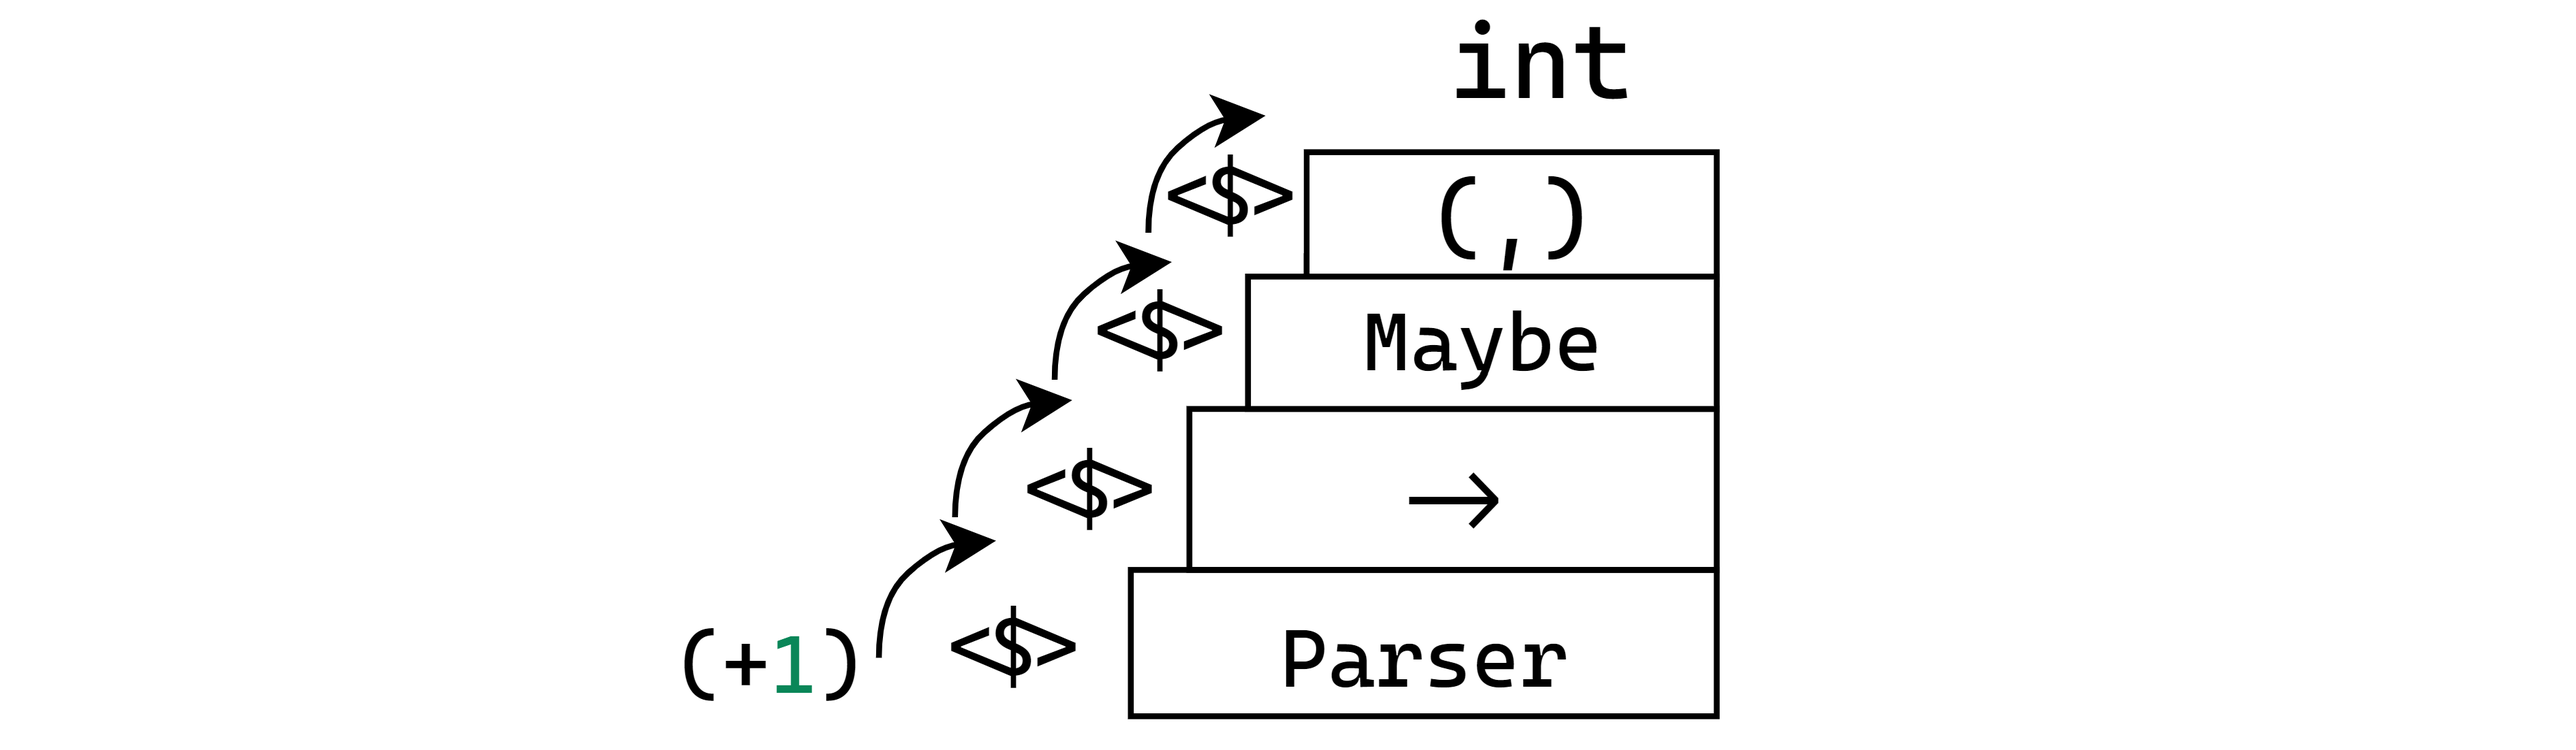
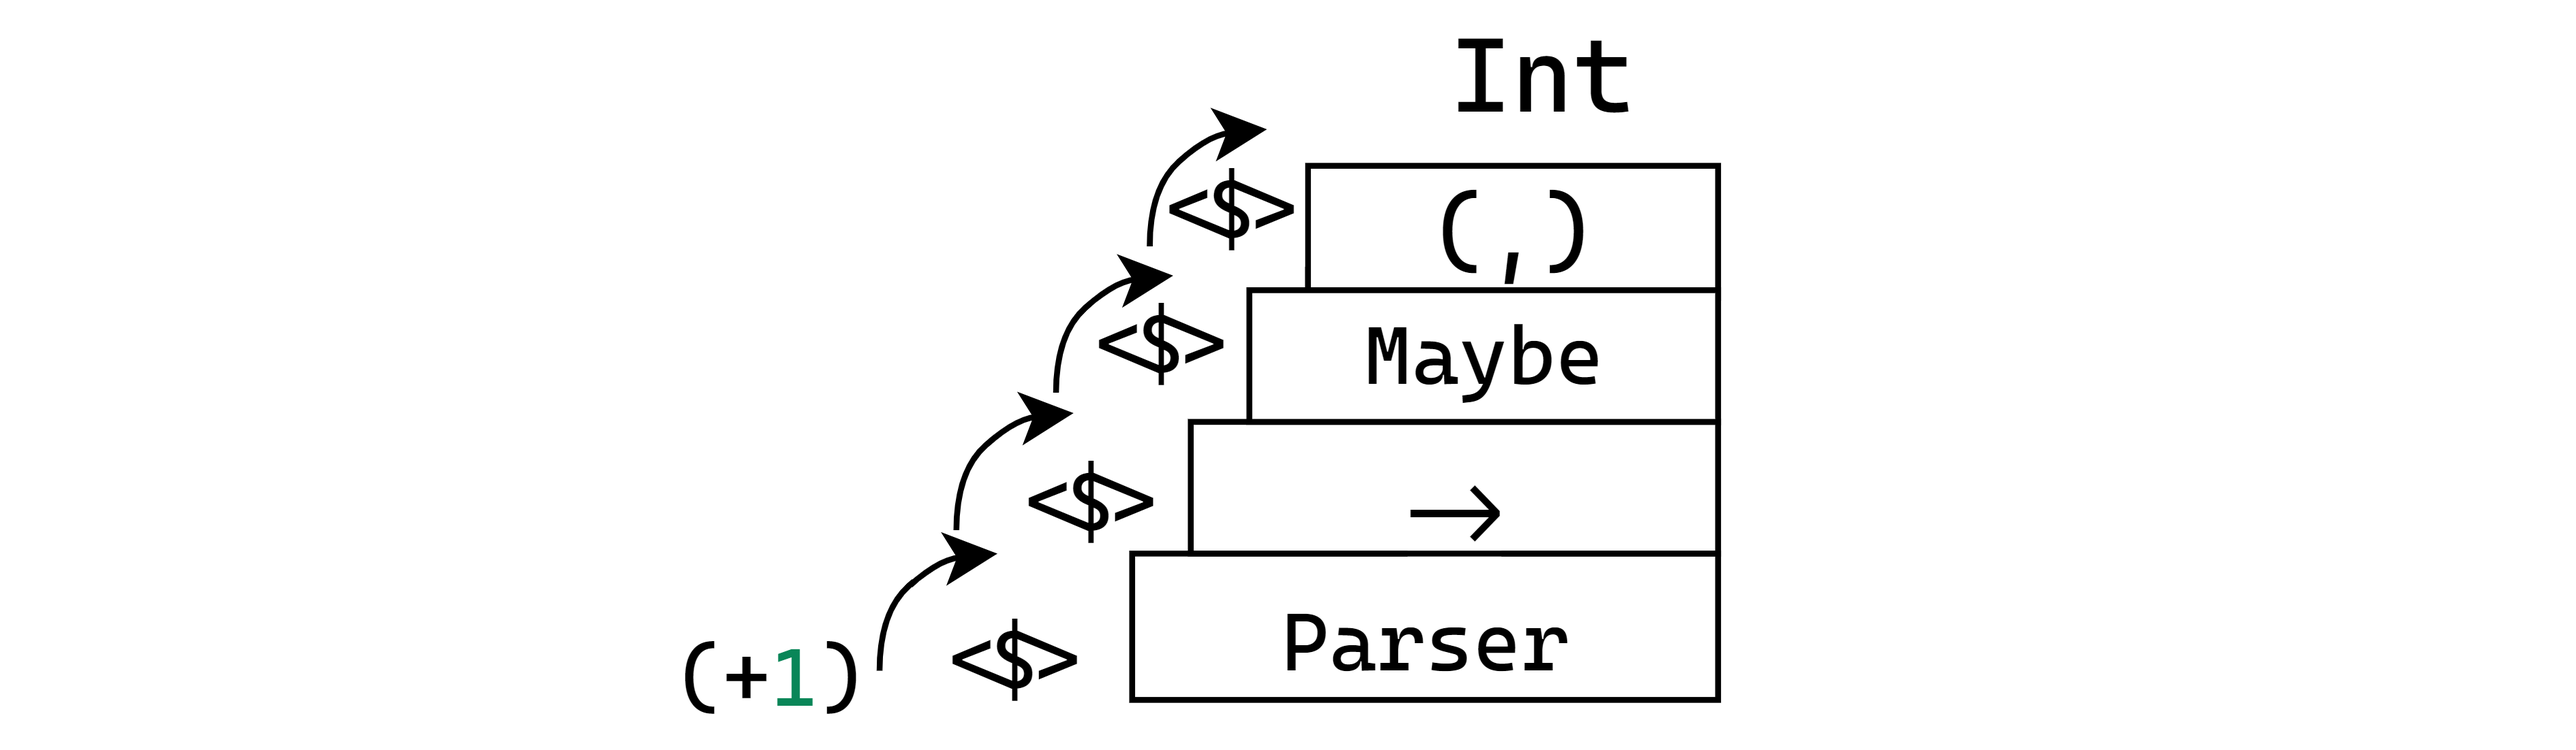
Int

diff --git a/_chapters/haskell3.md b/_chapters/haskell3.md
@@ -728,7 +728,7 @@ The whacky triple-nested application of `<$>` comes about because the result typ
 Just ("bc",2)
 ```
 
-So `(+1)<$>int` creates a new `Parser` which parses an `int` from the input stream and adds one to the value parsed (if it succeeds).  Behind the scenes, using the implementation above, the `Parser`'s instance of Functor is effectively lifting over three additional layers of nested types, i.e.: 
+So `(+1)<$>int` creates a new `Parser` which parses an `int` from the input stream and adds one to the value parsed (if it succeeds).  Behind the scenes, using the implementation above, the `Parser`'s instance of Functor is effectively lifting over three additional layers of nested types to reach the `Int` value, i.e.: 
 
 ![Applicative Visual Summary](/assets/images/chapterImages/haskell3/parserfunctor.png)
 
